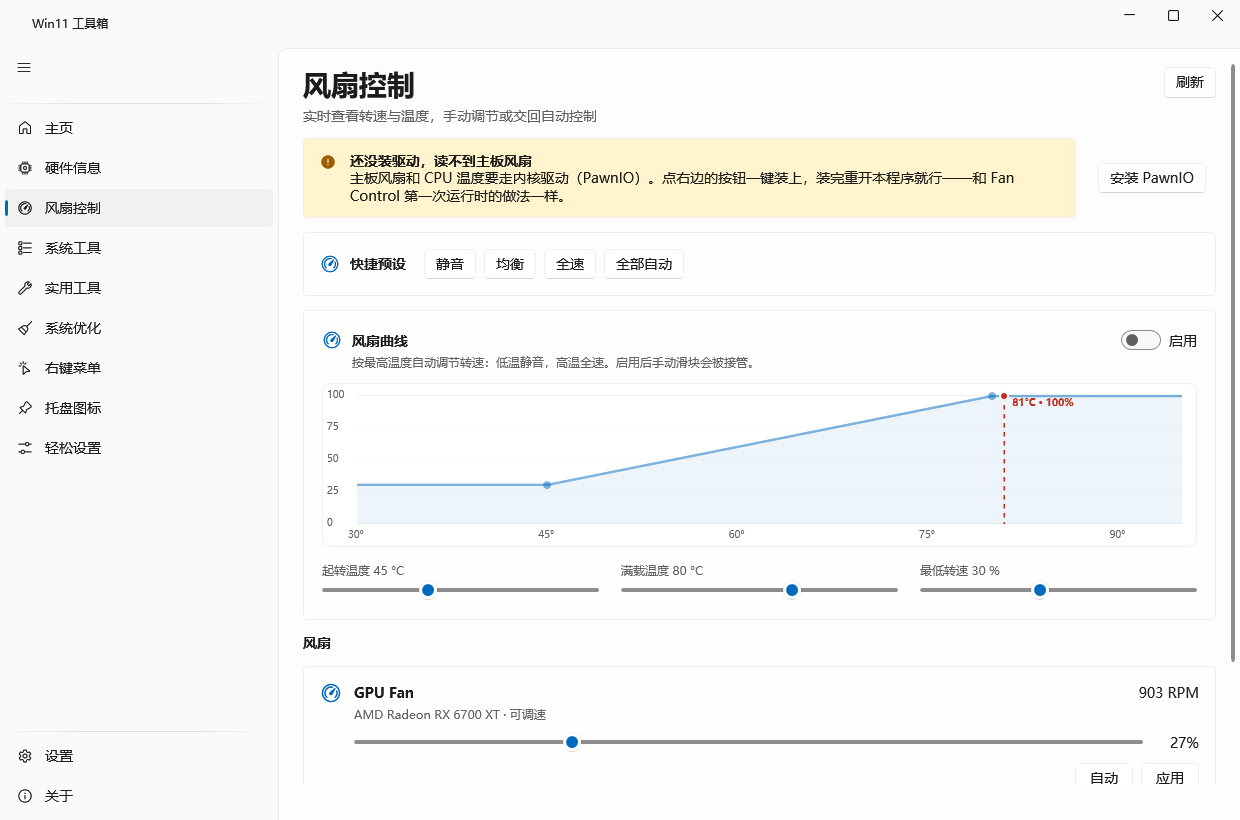
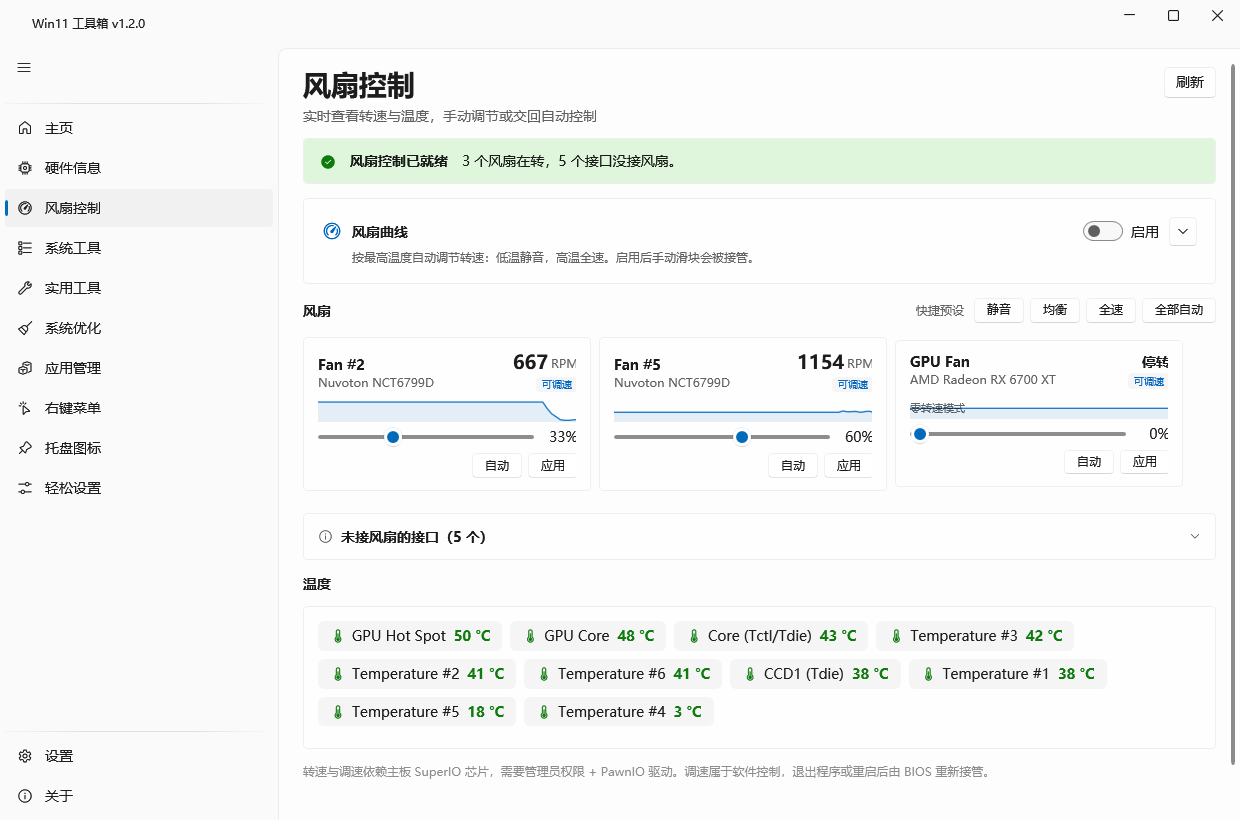
README：更新风扇页截图与说明

diff --git a/README.md b/README.md
@@ -38,7 +38,7 @@ Windows 11 的设置项散在十几个地方：想显示文件扩展名要翻三
 | --- | --- |
 | **主页** | 设备卡（版式同「设置 → 系统」：设备图 + 名称 + 型号 + 重命名）、CPU / 内存 / 系统盘 / 网络的**秒级柱状历史**、一键体检、8 个常用入口 |
 | **硬件信息** | 8 个选项卡：概览 / 处理器 / 内存（**逐条插槽**）/ 显卡 / 主板与固件 / 存储 / 网络 / 其他 |
-| **风扇控制** | 温度→转速曲线 + 手动调速 + 实时转速温度，思路参考 [Fan Control](https://github.com/Rem0o/FanControl.Releases)；主板侧驱动随程序分发，一键安装 |
+| **风扇控制** | 温度→转速曲线 + 手动调速 + 实时转速温度，思路参考 [Fan Control](https://github.com/Rem0o/FanControl.Releases)；按转速自动区分「接了风扇」和「空接口」，通道可双击改名；主板侧驱动随程序分发，一键安装 |
 | **系统工具** | 47 个 Windows 内置工具的分类磁贴，用 **Segoe Fluent Icons**（与系统设置同源的字形）+ 关键词搜索 |
 | **实用工具** | 文件哈希、Base64 / URL 编解码、随机密码、**2FA 验证码**（TOTP，密钥不落盘）、端口检测、Ping |
 | **系统优化** | 临时文件扫描清理、回收站、DNS 缓存、图标缓存、资源管理器重启、`sfc`、启动项列表（带软件图标，同任务管理器） |
@@ -63,7 +63,7 @@ Windows 11 的设置项散在十几个地方：想显示文件扩展名要翻三
   <img src="docs/screenshots/tools.png" alt="系统工具" width="49%">
   <img src="docs/screenshots/fan.png" alt="风扇控制" width="49%">
   <br>
-  <sub>左：系统工具 · 47 个内置工具，按用途分类　　右：风扇控制 · 温度曲线与手动调速</sub>
+  <sub>左：系统工具 · 47 个内置工具，按用途分类　　右：风扇控制 · 三列卡片、转速趋势与温度曲线</sub>
 </p>
 
 <p align="center">
